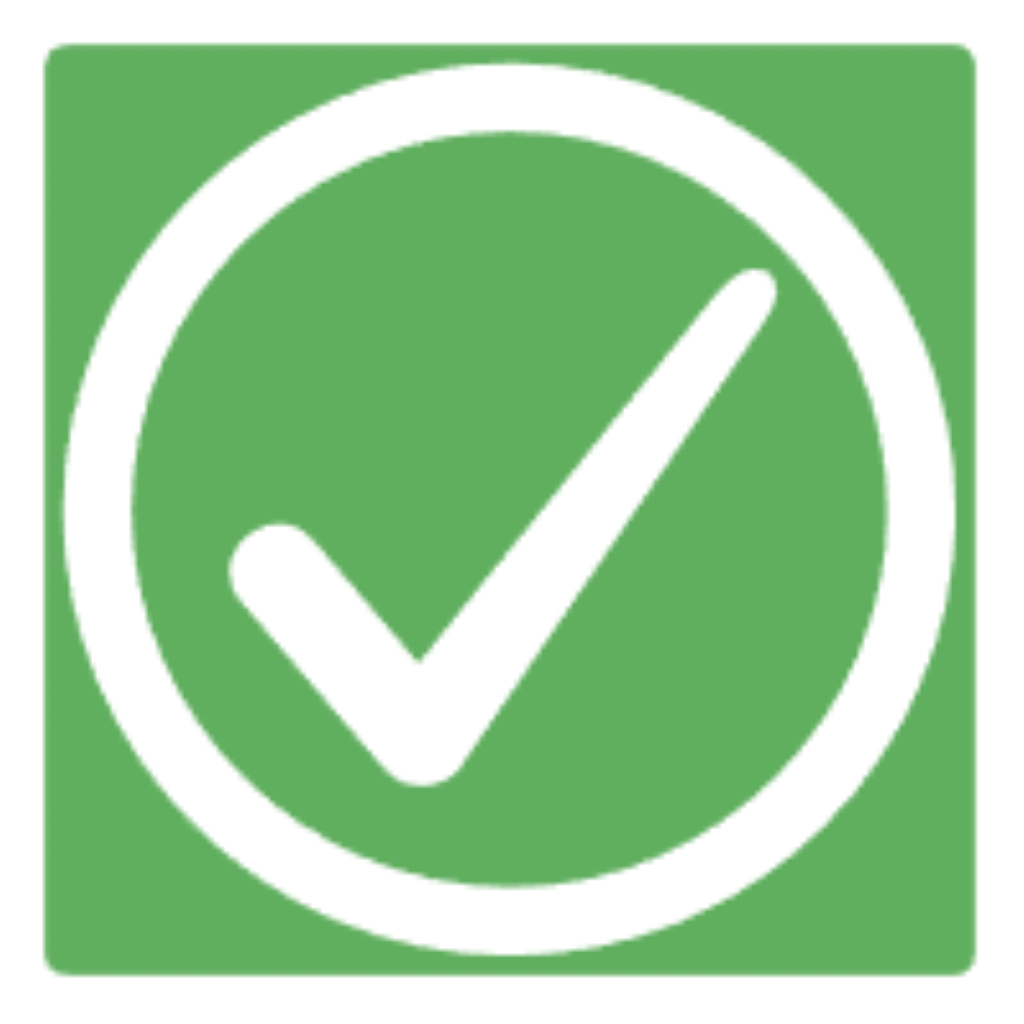
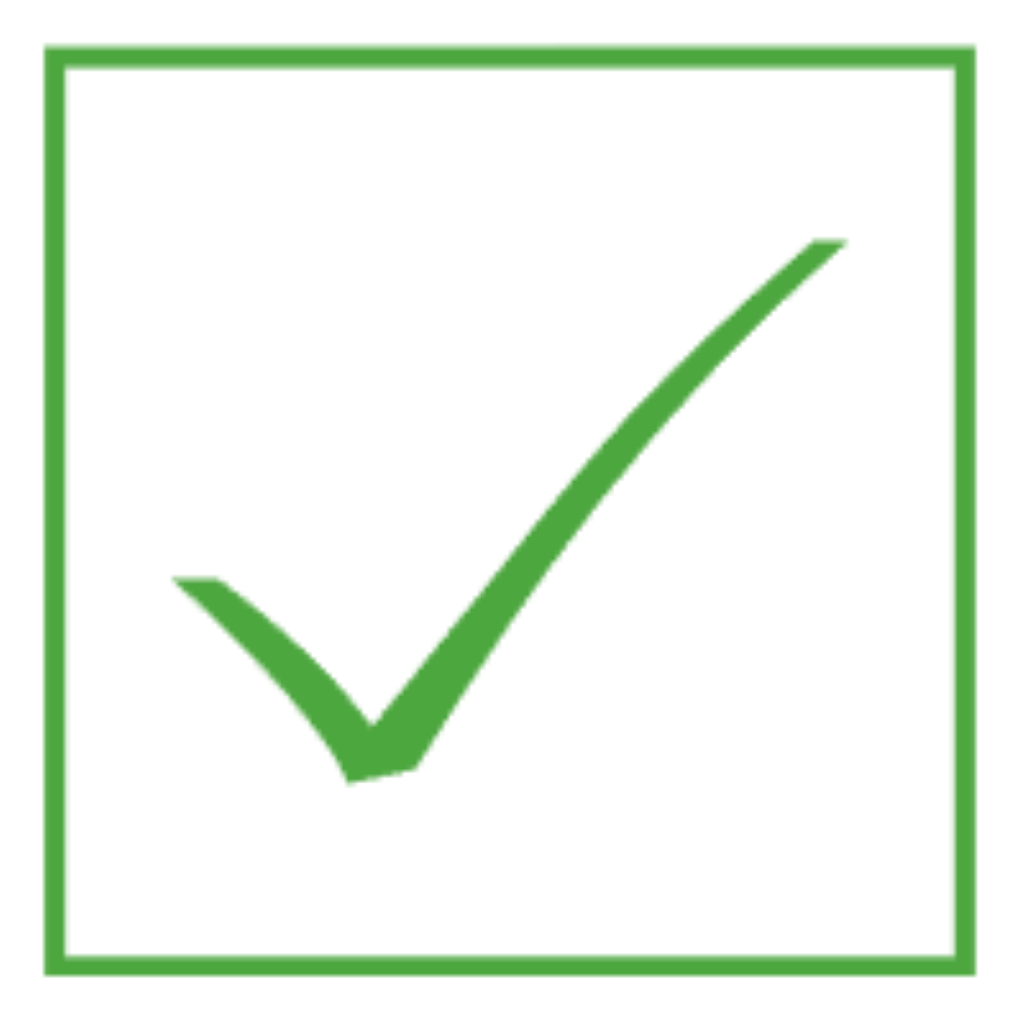
changed food tables, they no longer constatnly refresh upon re-entering home page. state is saved now

diff --git a/apps/mobile/App.tsx b/apps/mobile/App.tsx
@@ -128,10 +128,14 @@ export default function App() {
   // When we enter the app with a profile, load any saved goals from the DB
   // and merge them over the computed defaults (saved values win). Retries
   // internally to cover Aurora's cold-start wake.
+  // Load saved goals ONCE per session (not on every return to the home
+  // screen). The guard ref prevents a re-fetch when navigating back.
+  const goalsLoadedRef = useRef(false);
   useEffect(() => {
-    if (screen !== 'app' || !profile) return;
+    if (screen !== 'app' || !profile || !userId) return;
+    if (goalsLoadedRef.current) return;
+    goalsLoadedRef.current = true;
     (async () => {
-      if (!userId) return;
       const saved = await loadGoals(userId);
       // null = load failed after retries; only merge on a real result.
       if (saved) {
@@ -141,6 +145,8 @@ export default function App() {
         if (Object.keys(saved.comparators).length > 0) {
           setComparators((prev) => ({ ...prev, ...saved.comparators }));
         }
+      } else {
+        goalsLoadedRef.current = false; // allow a retry later if it failed
       }
     })();
   }, [screen, profile, userId]);
@@ -281,29 +287,13 @@ export default function App() {
     return <VerifyEmail email={pendingAuth.current.email} onVerified={handleVerified} />;
   }
 
-  if (screen === 'foodLog') {
-    return <FoodLog userId={userId} onBack={() => setScreen('app')} />;
-  }
-
-    if (screen === 'account') {
-    return (
-      <AccountScreen
-        profile={profile}
-        userId={userId}
-        onBack={() => setScreen('app')}
-        onAccountDeleted={handleAccountDeleted}
-        onShowSources={() => { setSourcesFrom('account'); setScreen('sources'); }}
-        onLogout={handleLogout}
-      />
-    );
-  }
-
-    if (screen === 'sources') {
-    return <Sources onBack={() => setScreen(sourcesFrom)} />;
-  }
-
-  // Main app (screen === 'app')
+  // ---- Post-auth screens ----
+  // The home view stays mounted for the whole session; Food Log, Account and
+  // Sources render as overlays ON TOP of it. Because the home view never
+  // unmounts, leaving it and coming back doesn't re-pull data from the
+  // database — it's instant, with no visible refresh.
   return (
+    <View style={styles.root}>
     <SafeAreaView style={styles.container}>
       <ScrollView ref={scrollRef} contentContainerStyle={styles.scroll}>
         <View style={styles.topBar}>
@@ -370,10 +360,37 @@ export default function App() {
         onResetToComputed={resetGoalsToComputed}
       />
     </SafeAreaView>
+
+      {/* Overlays — mount on top of the still-mounted home view */}
+      {screen === 'foodLog' && (
+        <View style={styles.overlay}>
+          <FoodLog userId={userId} onBack={() => setScreen('app')} />
+        </View>
+      )}
+      {screen === 'account' && (
+        <View style={styles.overlay}>
+          <AccountScreen
+            profile={profile}
+            userId={userId}
+            onBack={() => setScreen('app')}
+            onAccountDeleted={handleAccountDeleted}
+            onShowSources={() => { setSourcesFrom('account'); setScreen('sources'); }}
+            onLogout={handleLogout}
+          />
+        </View>
+      )}
+      {screen === 'sources' && (
+        <View style={styles.overlay}>
+          <Sources onBack={() => setScreen(sourcesFrom)} />
+        </View>
+      )}
+    </View>
   );
 }
 
 const styles = StyleSheet.create({
+  root: { flex: 1, backgroundColor: '#f0f2f5' },
+  overlay: { position: 'absolute', top: 0, left: 0, right: 0, bottom: 0, backgroundColor: '#f0f2f5', zIndex: 10 },
   container: { flex: 1, backgroundColor: '#f0f2f5' },
   centered: { flex: 1, justifyContent: 'center', alignItems: 'center', backgroundColor: '#f0f2f5' },
   loadingText: { fontSize: 16, color: '#666' },
